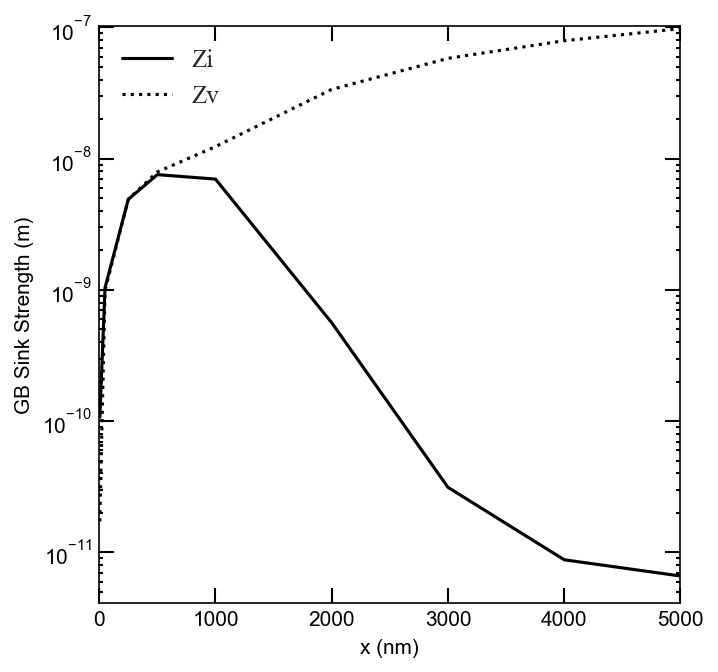
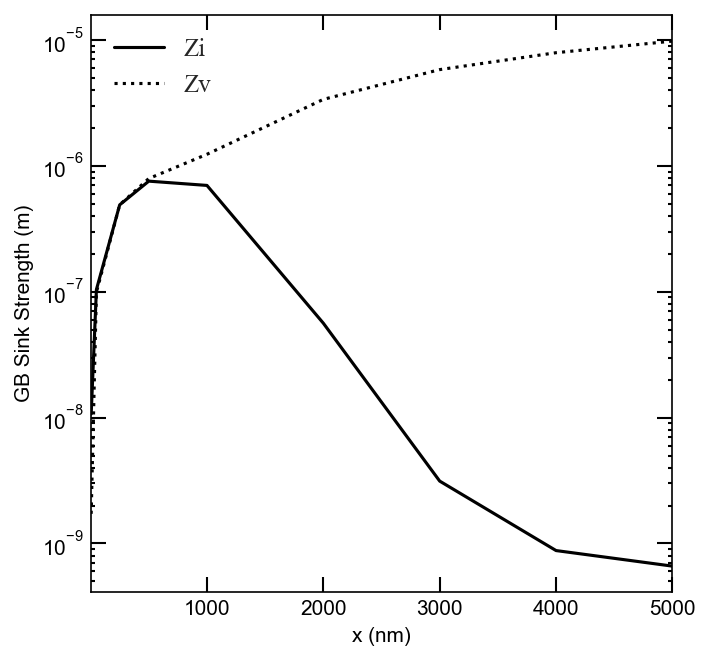
article-edit

diff --git a/scripts/plot_lengthscaled.py b/scripts/plot_lengthscaled.py
@@ -52,15 +52,15 @@ def getHelp():
 def getSinkStrength(df,l,scale,coordinates="cartesian"):
     ss_file = open('sink_strength_moose.csv', 'a')
     nrow = df.shape[0] #number of columns in dataframe
-    size = df.loc[nrow-1,'x']/scale
-    d = size
+    size = df.loc[nrow-1,'x']
+    d = size/scale
     flow_area=1 # !check this number for 2D and 3D
     if df.loc[nrow-1,'y']==0 and df.loc[nrow-1,'z']==0: # check 1D domain
-        flow_area=size*size
+        flow_area=d**2
     if coordinates == "spherical": # for spherical grains
         print('\033[91m'+"Coordinate system is \""+coordinates+"\""+'\033[0m')
-        d = size * 2 # dimater of grain
-        flow_area = 4*np.pi*size**2 # surface are of grain
+        d = d * 2 # dimater of grain
+        flow_area = np.pi*d**2 # surface are of grain 4pir^2=piD^2
         xi = df.loc[0,'xi']  # at center(r=0) for spherical coordinate system
         xv = df.loc[0,'xv']  # at center(r=0) for spherical coordinate system
     else:
@@ -73,23 +73,27 @@ def getSinkStrength(df,l,scale,coordinates="cartesian"):
     Di = df.loc[(nrow+1)/2,'Di']
     Dv = df.loc[(nrow+1)/2,'Dv']
     Zi = Fi/(xi*Di)
+    Zi_scaled = Zi*l
     Zv = Fv/(xv*Dv)
+    Zv_scaled = Zv*l
     rho = 6/(np.pi*(d**3))
     ki = rho*Zi
+    ki_scaled = ki/(l**2)
     kv = rho*Zv
+    kv_scaled = kv/(l**2)
     print('\033[94m'+'\033[4m'+'\033[1m'+"\nNondimensionalized Results for length_scale= "+str(l)+" m"+'\033[0m')
     print('\033[97m'+"Domain Size = "+str(size))
     print("xi = "+str(xi)+", jix = "+str(Ji)+", Di = "+str(Di))
     print("xv = "+str(xv)+", jvx = "+str(Jv)+", Dv = "+str(Dv))
     print('\033[93m'+"Zi: "+str(Zi)+" \nZv: "+str(Zv))
     print('\033[97m'+"ki^2: "+str(ki)+" \nkv^2: "+str(kv)+" "+'\033[0m')
-    ss_file.write(str(size)+","+str(xi)+","+str(xv)+","+str(Fi)+","+str(Fv)+","+str(Di)+","+str(Dv)+","+str(Zi)+","+str(Zv)+","+str(rho)+","+str(rho)+","+str(ki)+","+str(kv)+"\n")
+    ss_file.write(str(size)+","+str(xi)+","+str(xv)+","+str(Fi)+","+str(Fv)+","+str(Di)+","+str(Dv)+","+str(rho)+","+str(Zi)+","+str(Zv)+","+str(ki)+","+str(kv)+","+str(Zi_scaled)+","+str(Zv_scaled)+","+str(ki_scaled)+","+str(kv_scaled)+"\n")
     ss_file.close()
     return 0
 
 os.system("rm -rf sink_strength_moose.csv")
 ss_file = open('sink_strength_moose.csv', 'a')
-ss_file.write("x,Ci_Center,Cv_center,Fi,Fv,Di,Dv,Zi,Zv,rho,rho,ki,kv\n")
+ss_file.write("x,Ci_Center,Cv_center,Fi,Fv,Di,Dv,rho,Zi,Zv,ki,kv,Zi_scaled,Zv_scaled,ki_scaled,kv_scaled\n")
 ss_file.close()
 
 if sys.argv[-1]=="-"+"h":
